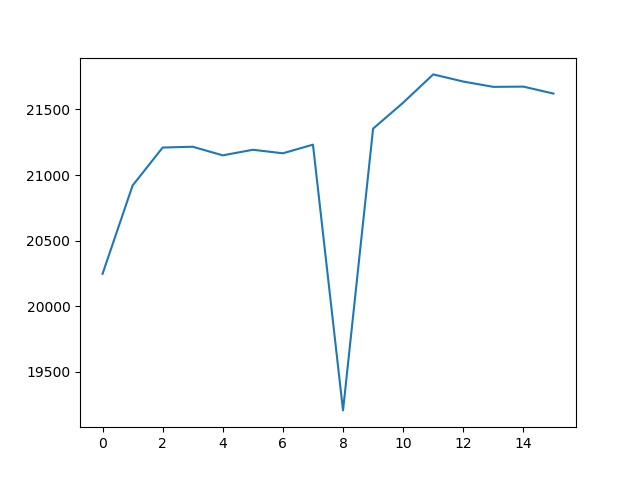
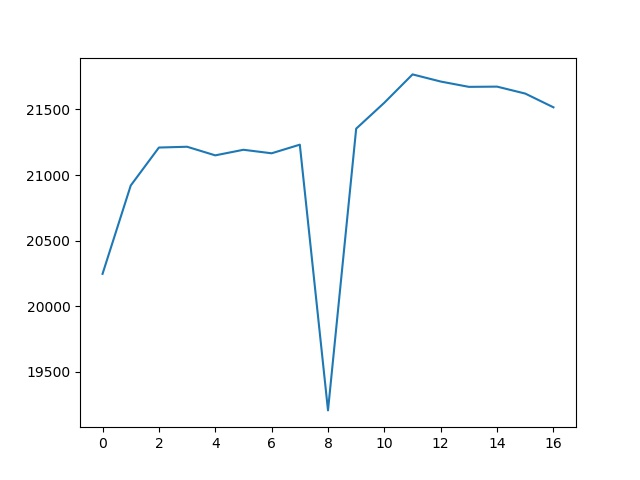
'auto'

diff --git a/README.md b/README.md
@@ -1,5 +1,5 @@
 Frizider live: 5
-21621.350000000002 
+21516.591666666667 
 0
 Temperatura:
 
